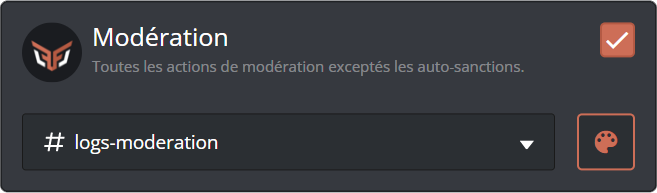
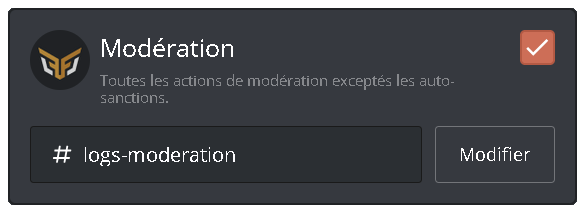
🔄 Replace image: panel_module.png

Changed region(s): [[0.0, 0.0, 1.0, 1.0], [0.0615, 0.6839, 0.4, 0.8083], [0.1538, 0.4352, 0.3077, 0.4974]]

diff --git a/docs/2.modules/9.logs.md b/docs/2.modules/9.logs.md
@@ -67,11 +67,25 @@ Les logs sont des embeds qui sont envoyés non pas par **DraftBot**, mais par de
   ::
 ::
 
-## Destination des logs
+## Configurer les destinations
 
 Chaque log peut être envoyé vers différentes destinations.
 
-Cliquez sur **Modifier** pour choisir le mode d’envoi.
+### Modifier la destination
+
+Cliquez sur **Modifier** pour choisir le mode d'envoi.
+
+::tabs
+  ::tab{ label="Via le panel" }
+    [⫸ Accéder au panel de **DraftBot**](/dashboard/first/nomDuModule)
+  ::
+
+  ::tab{ label="Via la commande /config" }
+    Si vous souhaitez effectuer toute la configuration directement depuis Discord, vous pouvez le faire via la commande /config, puis en vous rendant dans l'onglet "Logs". Le menu ressemble alors à ceci :
+  ::
+::
+
+### Les options
 
 ::tabs
   ::tab{ label="Serveur" }
@@ -83,7 +97,7 @@ Cliquez sur **Modifier** pour choisir le mode d’envoi.
   ::
 
   ::tab{ label="Autres serveurs" }
-    Les logs sont envoyés vers un autre serveur Discord à l’aide d’un **webhook Discord** externe.
+    Les logs sont envoyés vers un autre serveur Discord à l'aide d'un **webhook Discord** externe.
 
     > Exemple :
     > https://discord.com/api/webhooks/
@@ -99,7 +113,7 @@ Cliquez sur **Modifier** pour choisir le mode d’envoi.
     | Type | Description | Exemple |
     |------|-------------|---------|
     | **URL personnalisée** | URL vers laquelle les données sont envoyées. Elle doit être valide et commencer par http:// ou https://. | https://example.com/webhook |
-    | **Headers HTTP personnalisés** | Paires clé/valeur ajoutées à la requête HTTP (authentification, options…). Jusqu’à 3 headers sont autorisés. | X-API-Key: YOUR_API_KEY |
+    | **Headers HTTP personnalisés** | Paires clé/valeur ajoutées à la requête HTTP (authentification, options…). Jusqu'à 3 headers sont autorisés. | X-API-Key: YOUR_API_KEY |
 
     ::hint{ type="info" }
       Cette fonctionnalité est réservée aux serveurs [premium](/premium) <:icon_premium_:1096140508625125417>.
@@ -158,4 +172,6 @@ Cliquez sur **Modifier** pour choisir le mode d’envoi.
     ![Exemple de log de modération](../assets/logs/bot_log.png)
   ::
 ::
+
+
 
